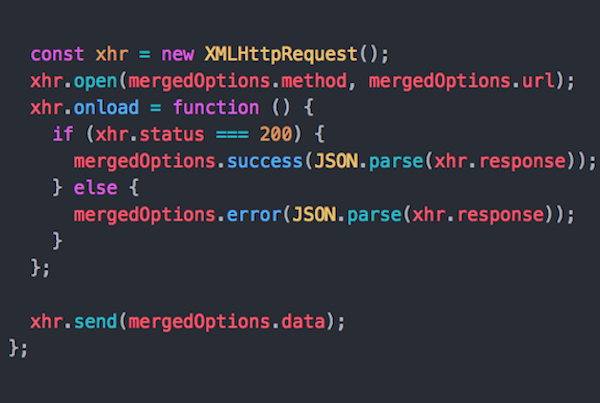
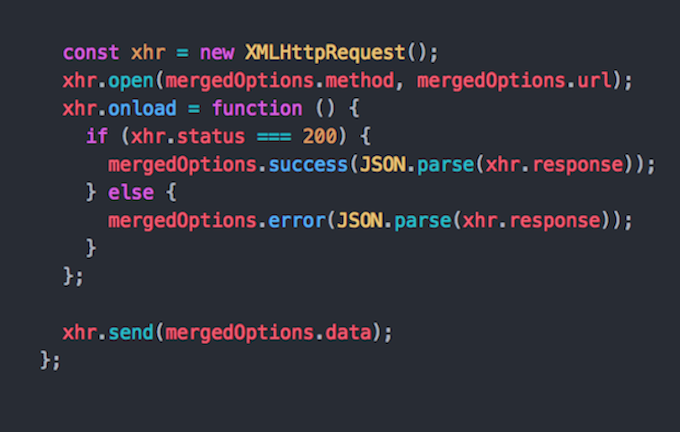
Resize and use new project images

Changed region(s): [[0.03, 0.0893, 1.0, 0.6849], [0.0, 0.7444, 0.6, 0.8933]]

diff --git a/assets/css/main.css b/assets/css/main.css
@@ -2658,6 +2658,10 @@
 				width: 100%;
 			}
 
+			img {
+				object-fit: cover;
+			}
+
 /* List */
 
 	ol {
